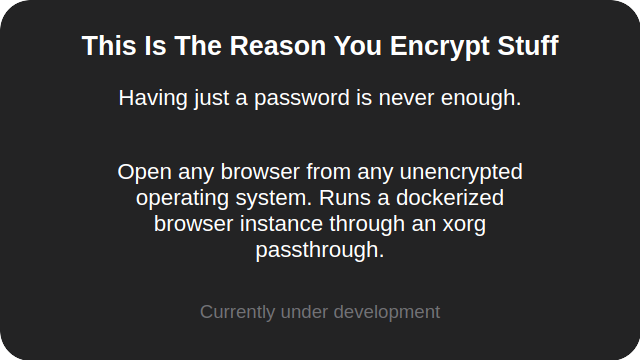
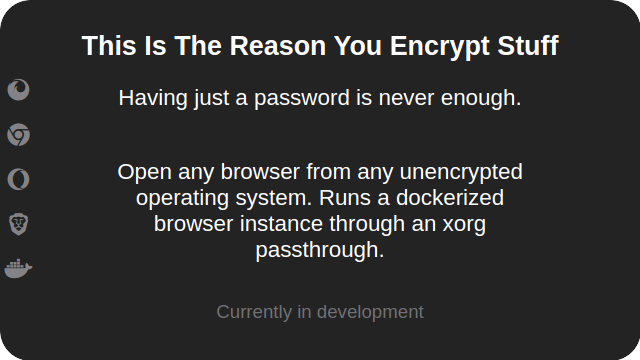
Added https://scripts.yt/

diff --git a/img/projects/security/titryes.html b/img/projects/security/titryes.html
@@ -48,6 +48,6 @@
         Runs a dockerized browser instance through an xorg passthrough.
     </p>
     <small style="">
-        Currently under development
+        Currently in development
     </small>
 </main>

diff --git a/README.php b/README.php
@@ -25,6 +25,10 @@ You can find a complete timeline [here](https://robertwesner.github.io/knowledge
 
 ### Userscripts
 
+I am working on various userscripts for YouTube to improve the user experience.
+
+You can find more details on [scripts.yt](https://scripts.yt/).
+
 <?= Table::build(
     ['YouTube-Play-All', 'YouTube-Shadow-Comment', 'YouTube-O-Clock'],
     [
@@ -66,7 +70,6 @@ You can find a complete timeline [here](https://robertwesner.github.io/knowledge
 
 
 ### Other
-
 
 <?= Table::build(
     ['AWDY', ''],

diff --git a/README.md b/README.md
@@ -16,25 +16,28 @@ You can find a complete timeline [here](https://robertwesner.github.io/knowledge
 
 ### Userscripts
 
+I am working on various userscripts for YouTube to improve the UX.
+
+You can find more details on [scripts.yt](https://scripts.yt/).
+
 <table><tr><th width="10000">YouTube-Play-All</th><th width="10000">YouTube-Shadow-Comment</th><th width="10000">YouTube-O-Clock</th></tr><tr><td><div align="center">
-    <a href="https://github.com/RobertWesner/YouTube-Play-All"><img src="/img/projects/userscripts/youtube/ytpa.png?1729179380" alt="Adding the Play-All button back to YouTube. - Easy to install - Works out of the box - Supports Videos, Shorts, and Streams"></a>
+    <a href="https://github.com/RobertWesner/YouTube-Play-All"><img src="/img/projects/userscripts/youtube/ytpa.png?1730138049" alt="Adding the Play-All button back to YouTube. - Easy to install - Works out of the box - Supports Videos, Shorts, and Streams"></a>
 </div></td><td><div align="center">
-    <a href="https://github.com/RobertWesner/YouTube-Shadow-Comment"><img src="/img/projects/userscripts/youtube/ytsc.png?1729179380" alt="Checks if your comments are visible to the public. - Your comments will be automatically checked for visibility."></a>
+    <a href="https://github.com/RobertWesner/YouTube-Shadow-Comment"><img src="/img/projects/userscripts/youtube/ytsc.png?1730138049" alt="Checks if your comments are visible to the public. - Your comments will be automatically checked for visibility."></a>
 </div></td><td><div align="center">
-    <a href="https://github.com/RobertWesner/YouTube-O-Clock"><img src="/img/projects/userscripts/youtube/ytoc.png?1729179380" alt="Always have a video timestamps in your URL. - Even without the watch history, you will now continue right where you left off on the video."></a>
+    <a href="https://github.com/RobertWesner/YouTube-O-Clock"><img src="/img/projects/userscripts/youtube/ytoc.png?1730138049" alt="Always have a video timestamps in your URL. - Even without the watch history, you will now continue right where you left off on the video."></a>
 </div></td></tr></table>
 
 ### Security
 
 <table><tr><th width="10000">TITRYES</th><th width="10000"></th></tr><tr><td><div align="center">
-    <a href="https://github.com/RobertWesner/titryes"><img src="/img/projects/security/titryes.png?1729179380" alt="main { - padding: .4em; - font-size: 1.4em; - background-color: #232324; - color: white; - text-align: center; - } - #icons { - position: absolute; - left: .2em; - top: 0; - bottom: 0; - display: flex; - flex-direction: column; - justify-content: center; - color: #838387; - } - #icons &gt; i:not(:last-child) { - margin-bottom: 1em; - } - small { - position: absolute; - bottom: 2em; - left: 0; - right: 0; - color: #727276; - } - This Is The Reason You Encrypt Stuff - Having just a password is never enough. - Open any browser from any unencrypted operating system. - Runs a dockerized browser instance through an xorg passthrough. - Currently under development"></a>
+    <a href="https://github.com/RobertWesner/titryes"><img src="/img/projects/security/titryes.png?1730138049" alt="main { - padding: .4em; - font-size: 1.4em; - background-color: #232324; - color: white; - text-align: center; - } - #icons { - position: absolute; - left: .2em; - top: 0; - bottom: 0; - display: flex; - flex-direction: column; - justify-content: center; - color: #838387; - } - #icons &gt; i:not(:last-child) { - margin-bottom: 1em; - } - small { - position: absolute; - bottom: 2em; - left: 0; - right: 0; - color: #727276; - } - This Is The Reason You Encrypt Stuff - Having just a password is never enough. - Open any browser from any unencrypted operating system. - Runs a dockerized browser instance through an xorg passthrough. - Currently in development"></a>
 </div></td></tr></table>
 
 ### Other
 
-
 <table><tr><th width="10000">AWDY</th><th width="10000"></th></tr><tr><td><div align="center">
-    <a href="https://github.com/RobertWesner/awdy"><img src="/img/projects/other/awdy_rounded.gif?1729179380" alt="Are We Done Yet? Spice up your PHP-scripts with progress-bars and more! "></a>
+    <a href="https://github.com/RobertWesner/awdy"><img src="/img/projects/other/awdy_rounded.gif?1730138049" alt="Are We Done Yet? Spice up your PHP-scripts with progress-bars and more! "></a>
 </div></td></tr></table>
 
 <br>
